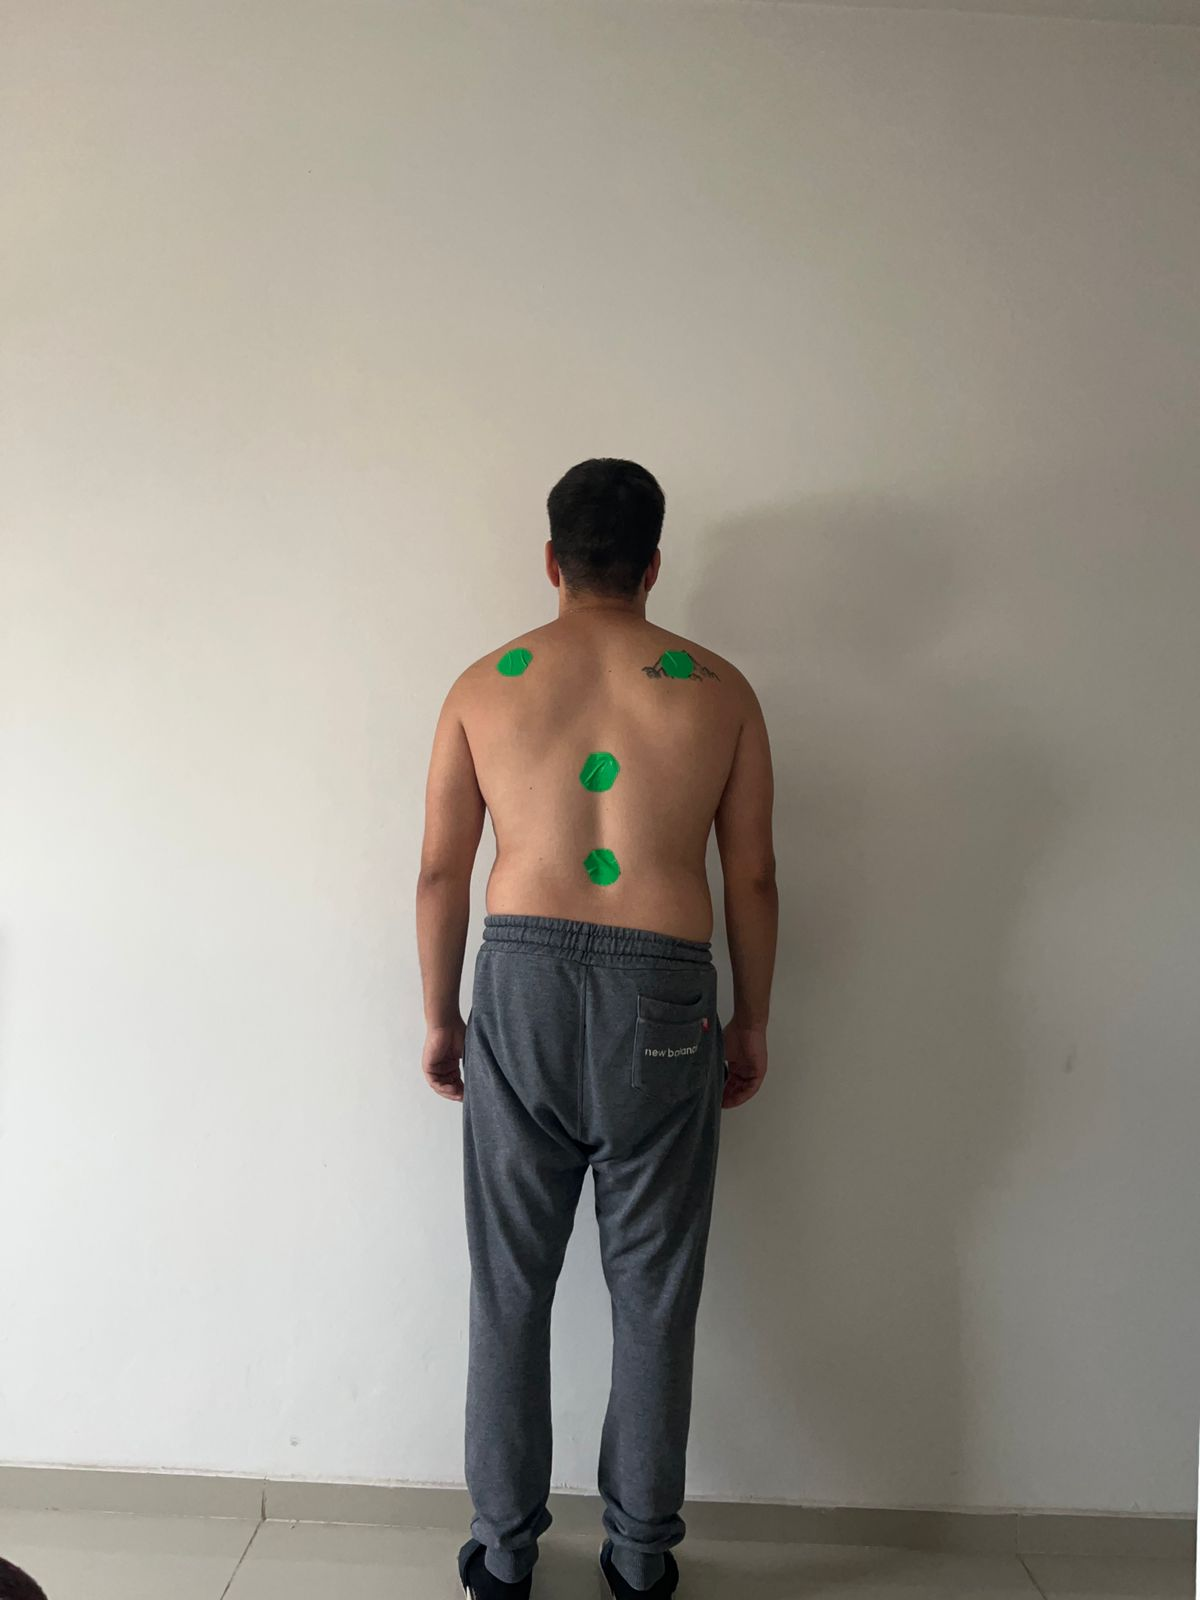
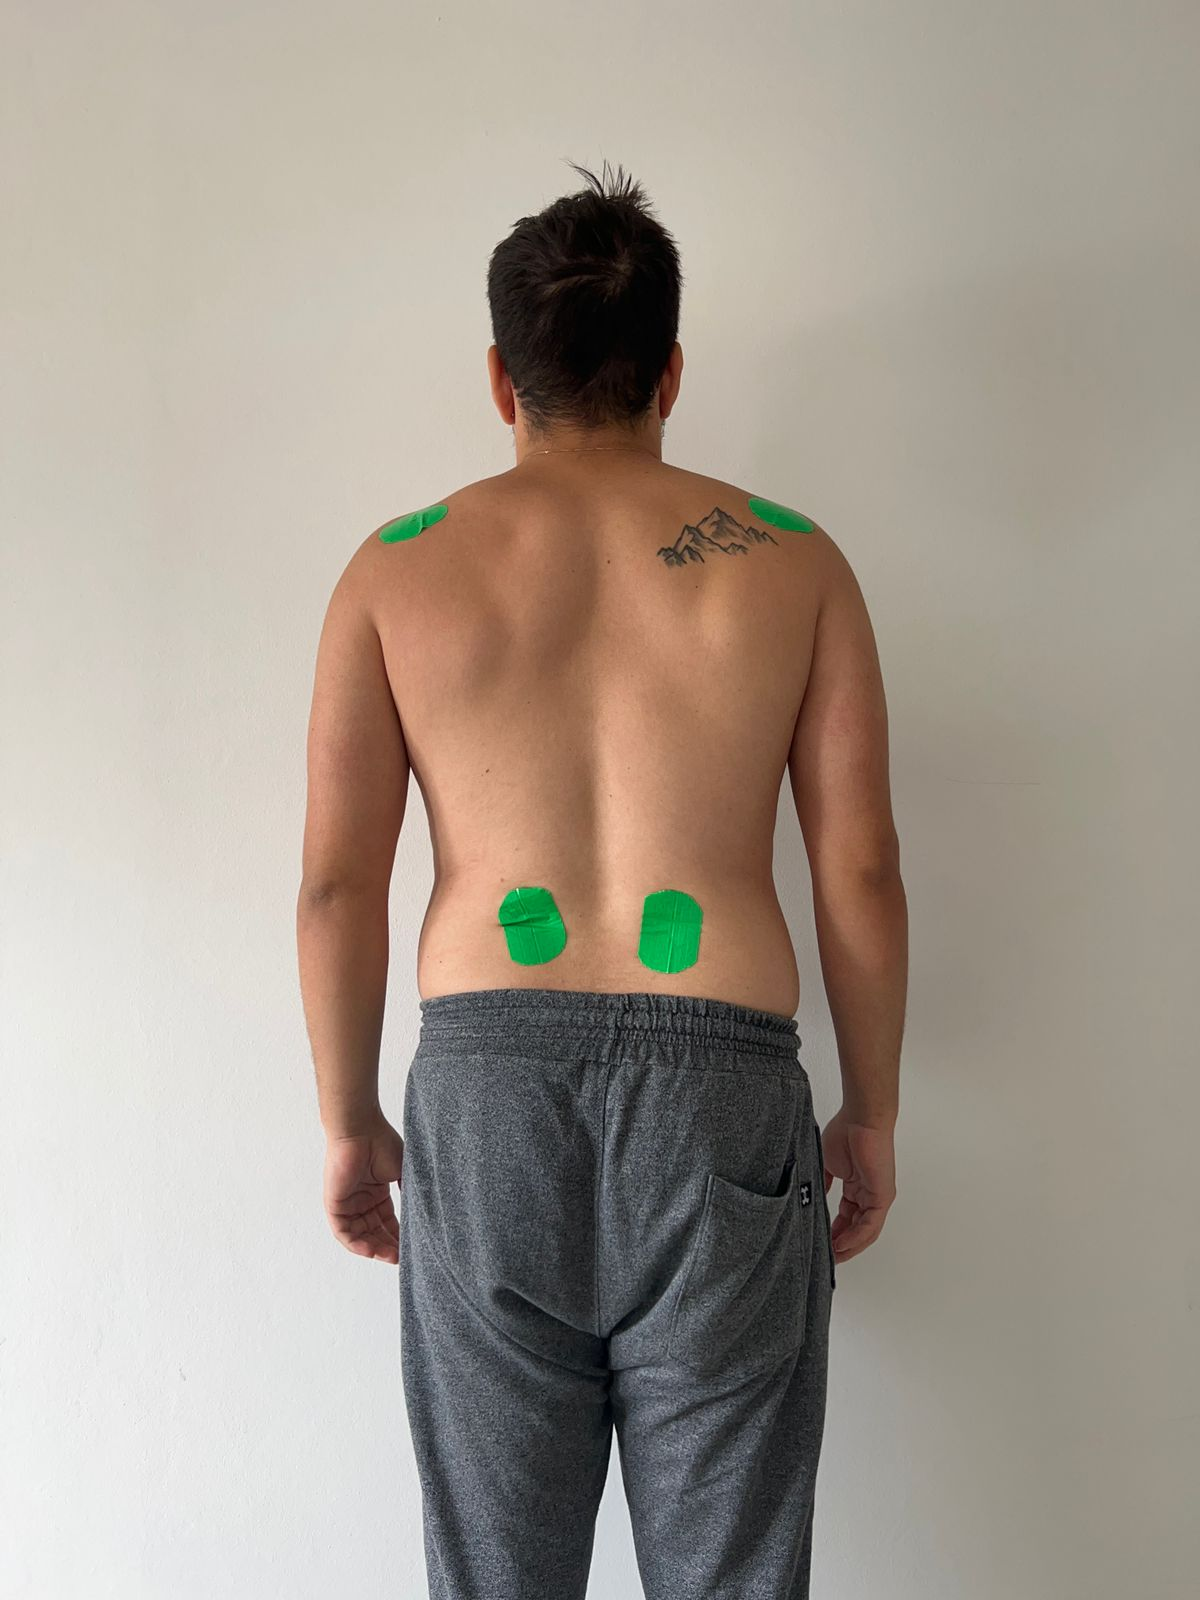
me trabe :(

diff --git a/postural.py b/postural.py
@@ -1,0 +1,30 @@
+import cv2
+import numpy as np
+
+
+class Postural_change():
+
+    def shoulders_difference(self, list_mask):
+
+        for mask in list_mask:
+
+            mask_gray = cv2.cvtColor(mask, cv2.COLOR_BGR2GRAY)
+
+            contours, hierarchy = cv2.findContours(mask_gray, cv2.RETR_TREE, cv2.CHAIN_APPROX_SIMPLE)
+
+            for i in range(len(contours)):
+                cv2.drawContours(mask, contours, i, (0, 255, 0), 3)
+                cv2.putText(mask, str(i), tuple(contours[i][0][0]), cv2.FONT_HERSHEY_SIMPLEX, 1, (255, 255, 255), 2)
+            
+
+            start_point1 = tuple(contours[0][0][0])
+            end_point1 = tuple(contours[3][0][0])
+            cv2.line(mask, start_point1, end_point1, (255, 255, 255), 2)
+
+            start_point2 = tuple(contours[1][0][0])
+            end_point2 = tuple(contours[2][0][0])
+            cv2.line(mask, start_point2, end_point2, (255, 255, 255), 2)
+
+            cv2.imshow('Linea de contorno a contorno', mask)
+            cv2.waitKey(0)
+            cv2.destroyAllWindows()

diff --git a/cargar_fotos.py b/cargar_fotos.py
@@ -1,18 +1,20 @@
 import cv2
 import os
+import numpy as np
+from PIL import Image
+
 class Upload_photos():
 
     def upload(self):
         
         list_images = []
+        list_ppi = []
 
         path_photos = "/home/nahuel/facultad/tif3/fotos paciente"
-        # path_photos_checked = "/home/nahuel/facultad/tif3/fotos paciente - analizadas"
 
         for pic in os.listdir(path_photos):
-
+            
             photo = cv2.imread(os.path.join(path_photos, pic))
-
             pho_resized = cv2.resize(photo, (800, 600))
             pho_bgr = cv2.cvtColor(pho_resized, cv2.COLOR_RGB2BGR)
             pho_blurred = cv2.GaussianBlur(pho_bgr, (5,5), 0)
@@ -20,8 +22,5 @@ class Upload_photos():
             list_images.append(pho_blurred)
 
         return list_images
-            #test to change the image
-            # neg_photo = cv2.bitwise_not(photo)
 
-            # out_photo = os.path.join(path_photos_checked, pic)
-            # cv2.imwrite(out_photo, neg_photo)
+        

diff --git a/deteccion.py b/deteccion.py
@@ -5,6 +5,8 @@ import numpy as np
 class Detection():
 
     def detection_color(self, images):
+
+        list_mask = []
         
         for img in images:
 
@@ -17,7 +19,6 @@ class Detection():
 
             filter_image = cv2.bitwise_and(img, img, mask=mask_green)
 
-            cv2.imshow("result", filter_image)
-            cv2.waitKey(0)
-            cv2.destroyAllWindows()
-        
+            list_mask.append(filter_image)
+
+        return list_mask

diff --git a/main.py b/main.py
@@ -1,9 +1,11 @@
-from cargar_fotos import Upload_photos
+from cargar_fotos import *
 from deteccion import *
+from postural import *
 
 def main():
     list_photos = Upload_photos().upload()
-    Detection().detection_color(list_photos)
+    list_mask = Detection().detection_color(list_photos)
+    Postural_change().shoulders_difference(list_mask)
 
 
 
